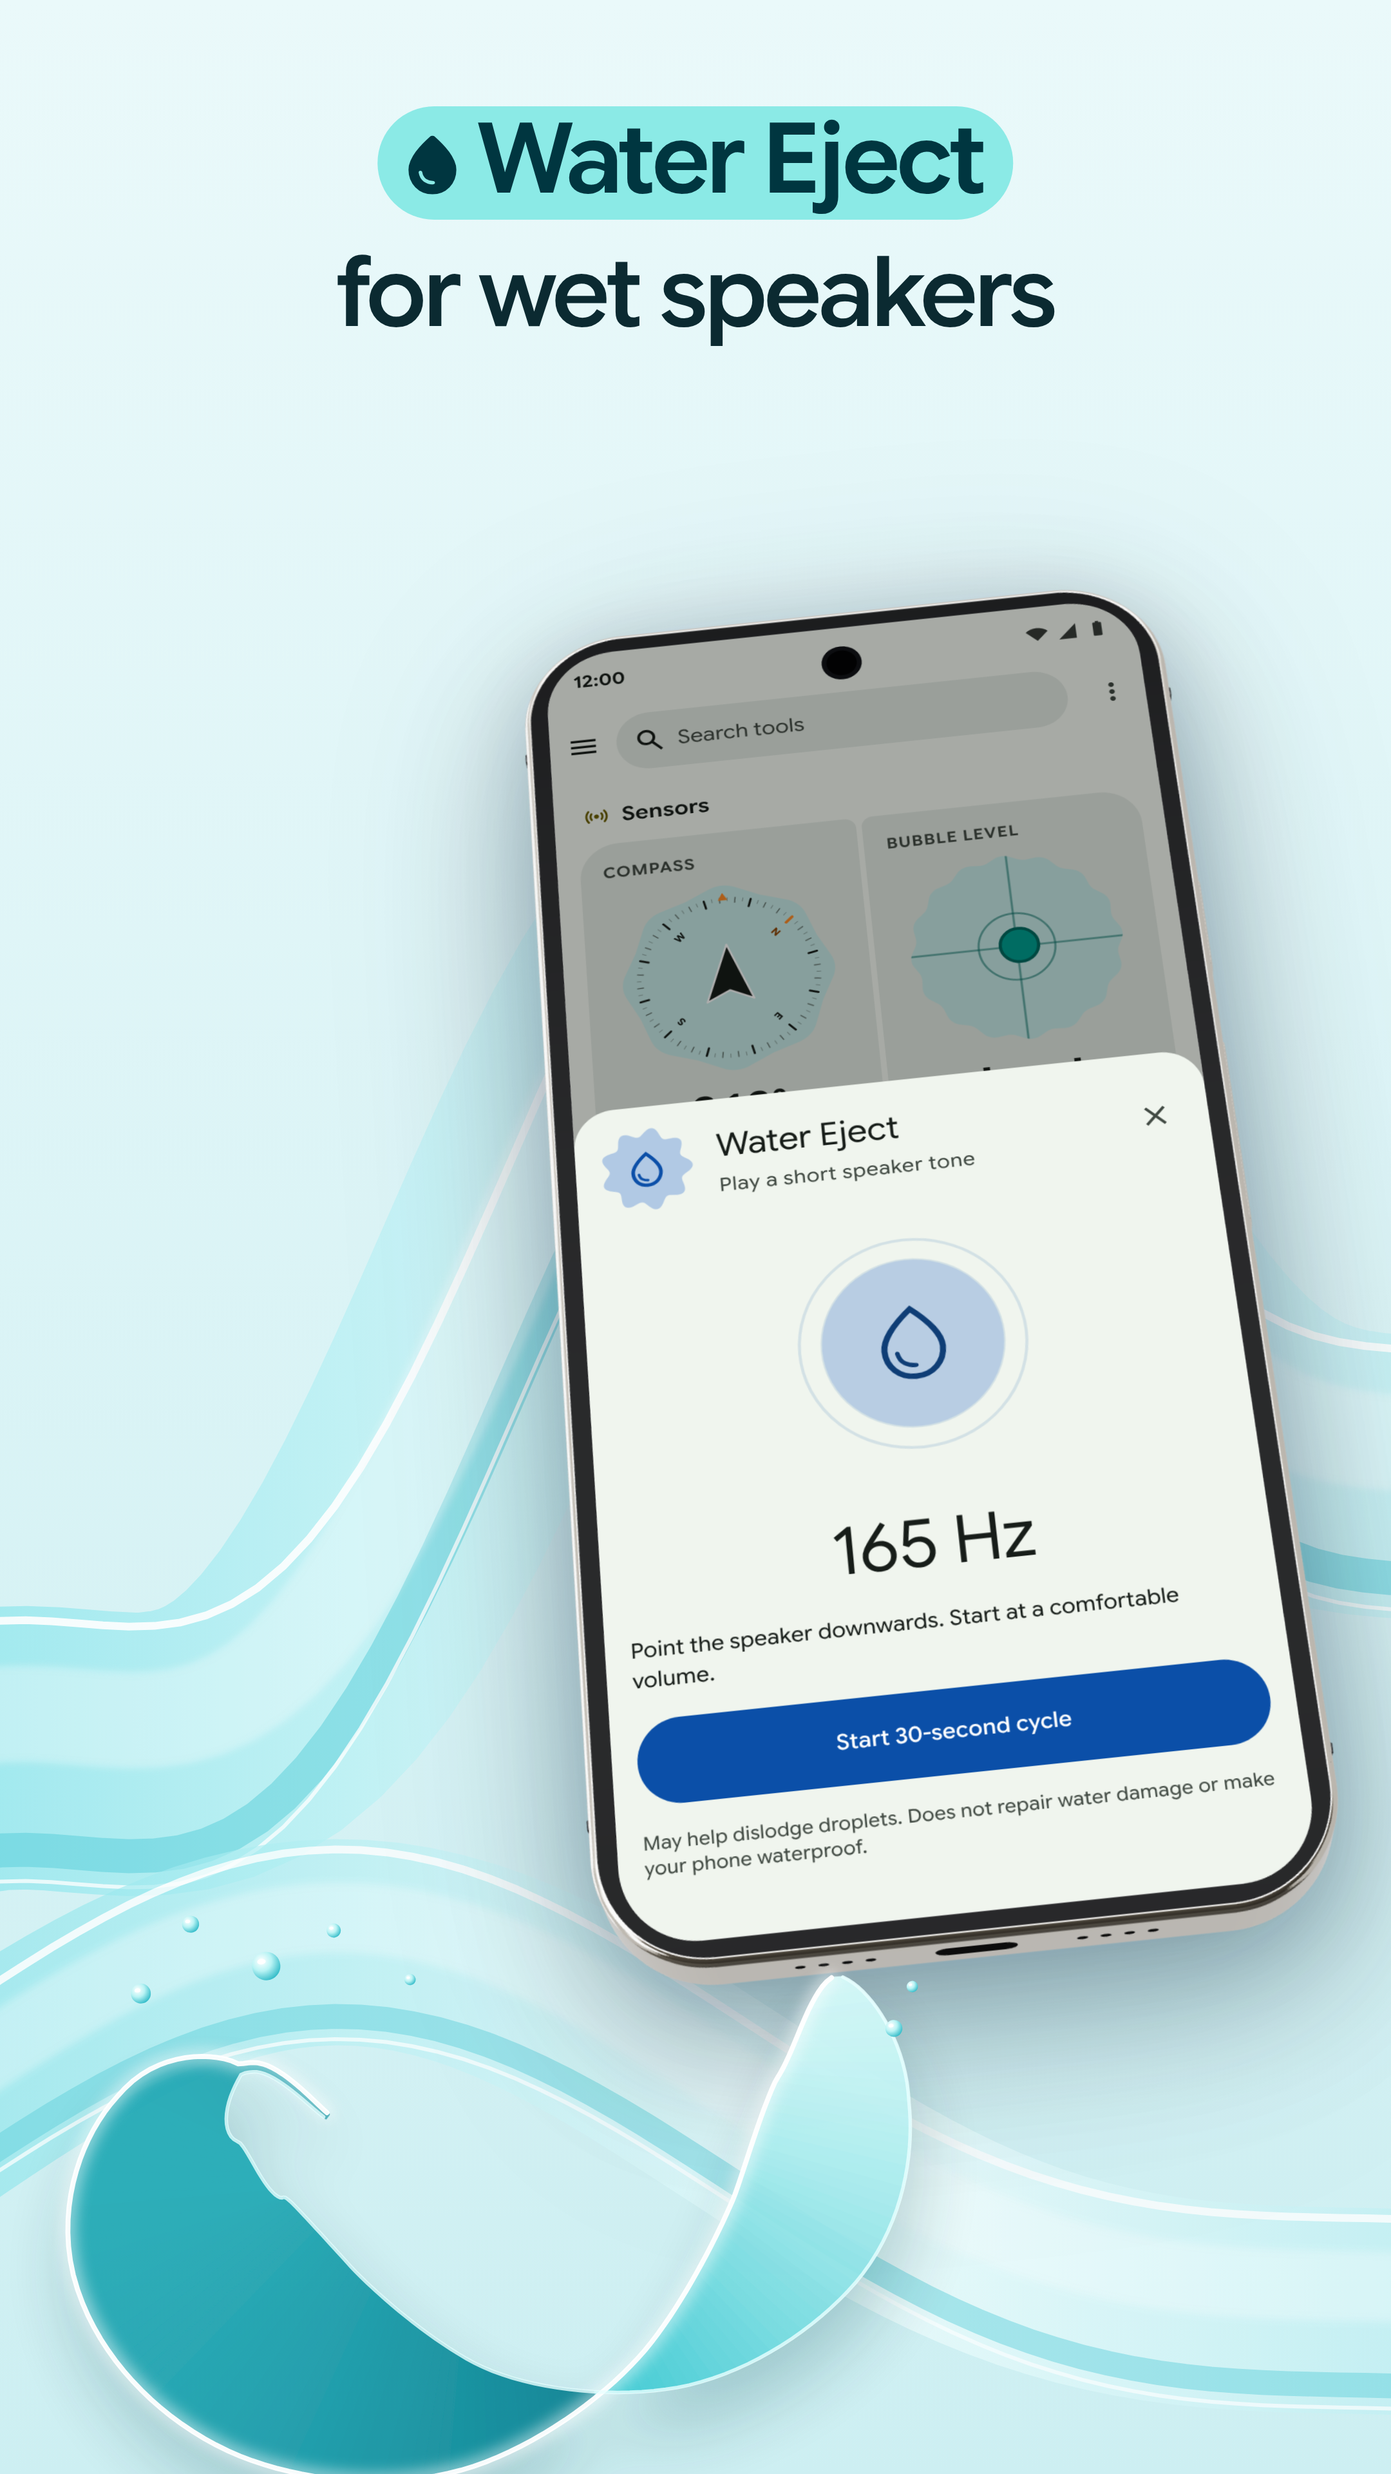
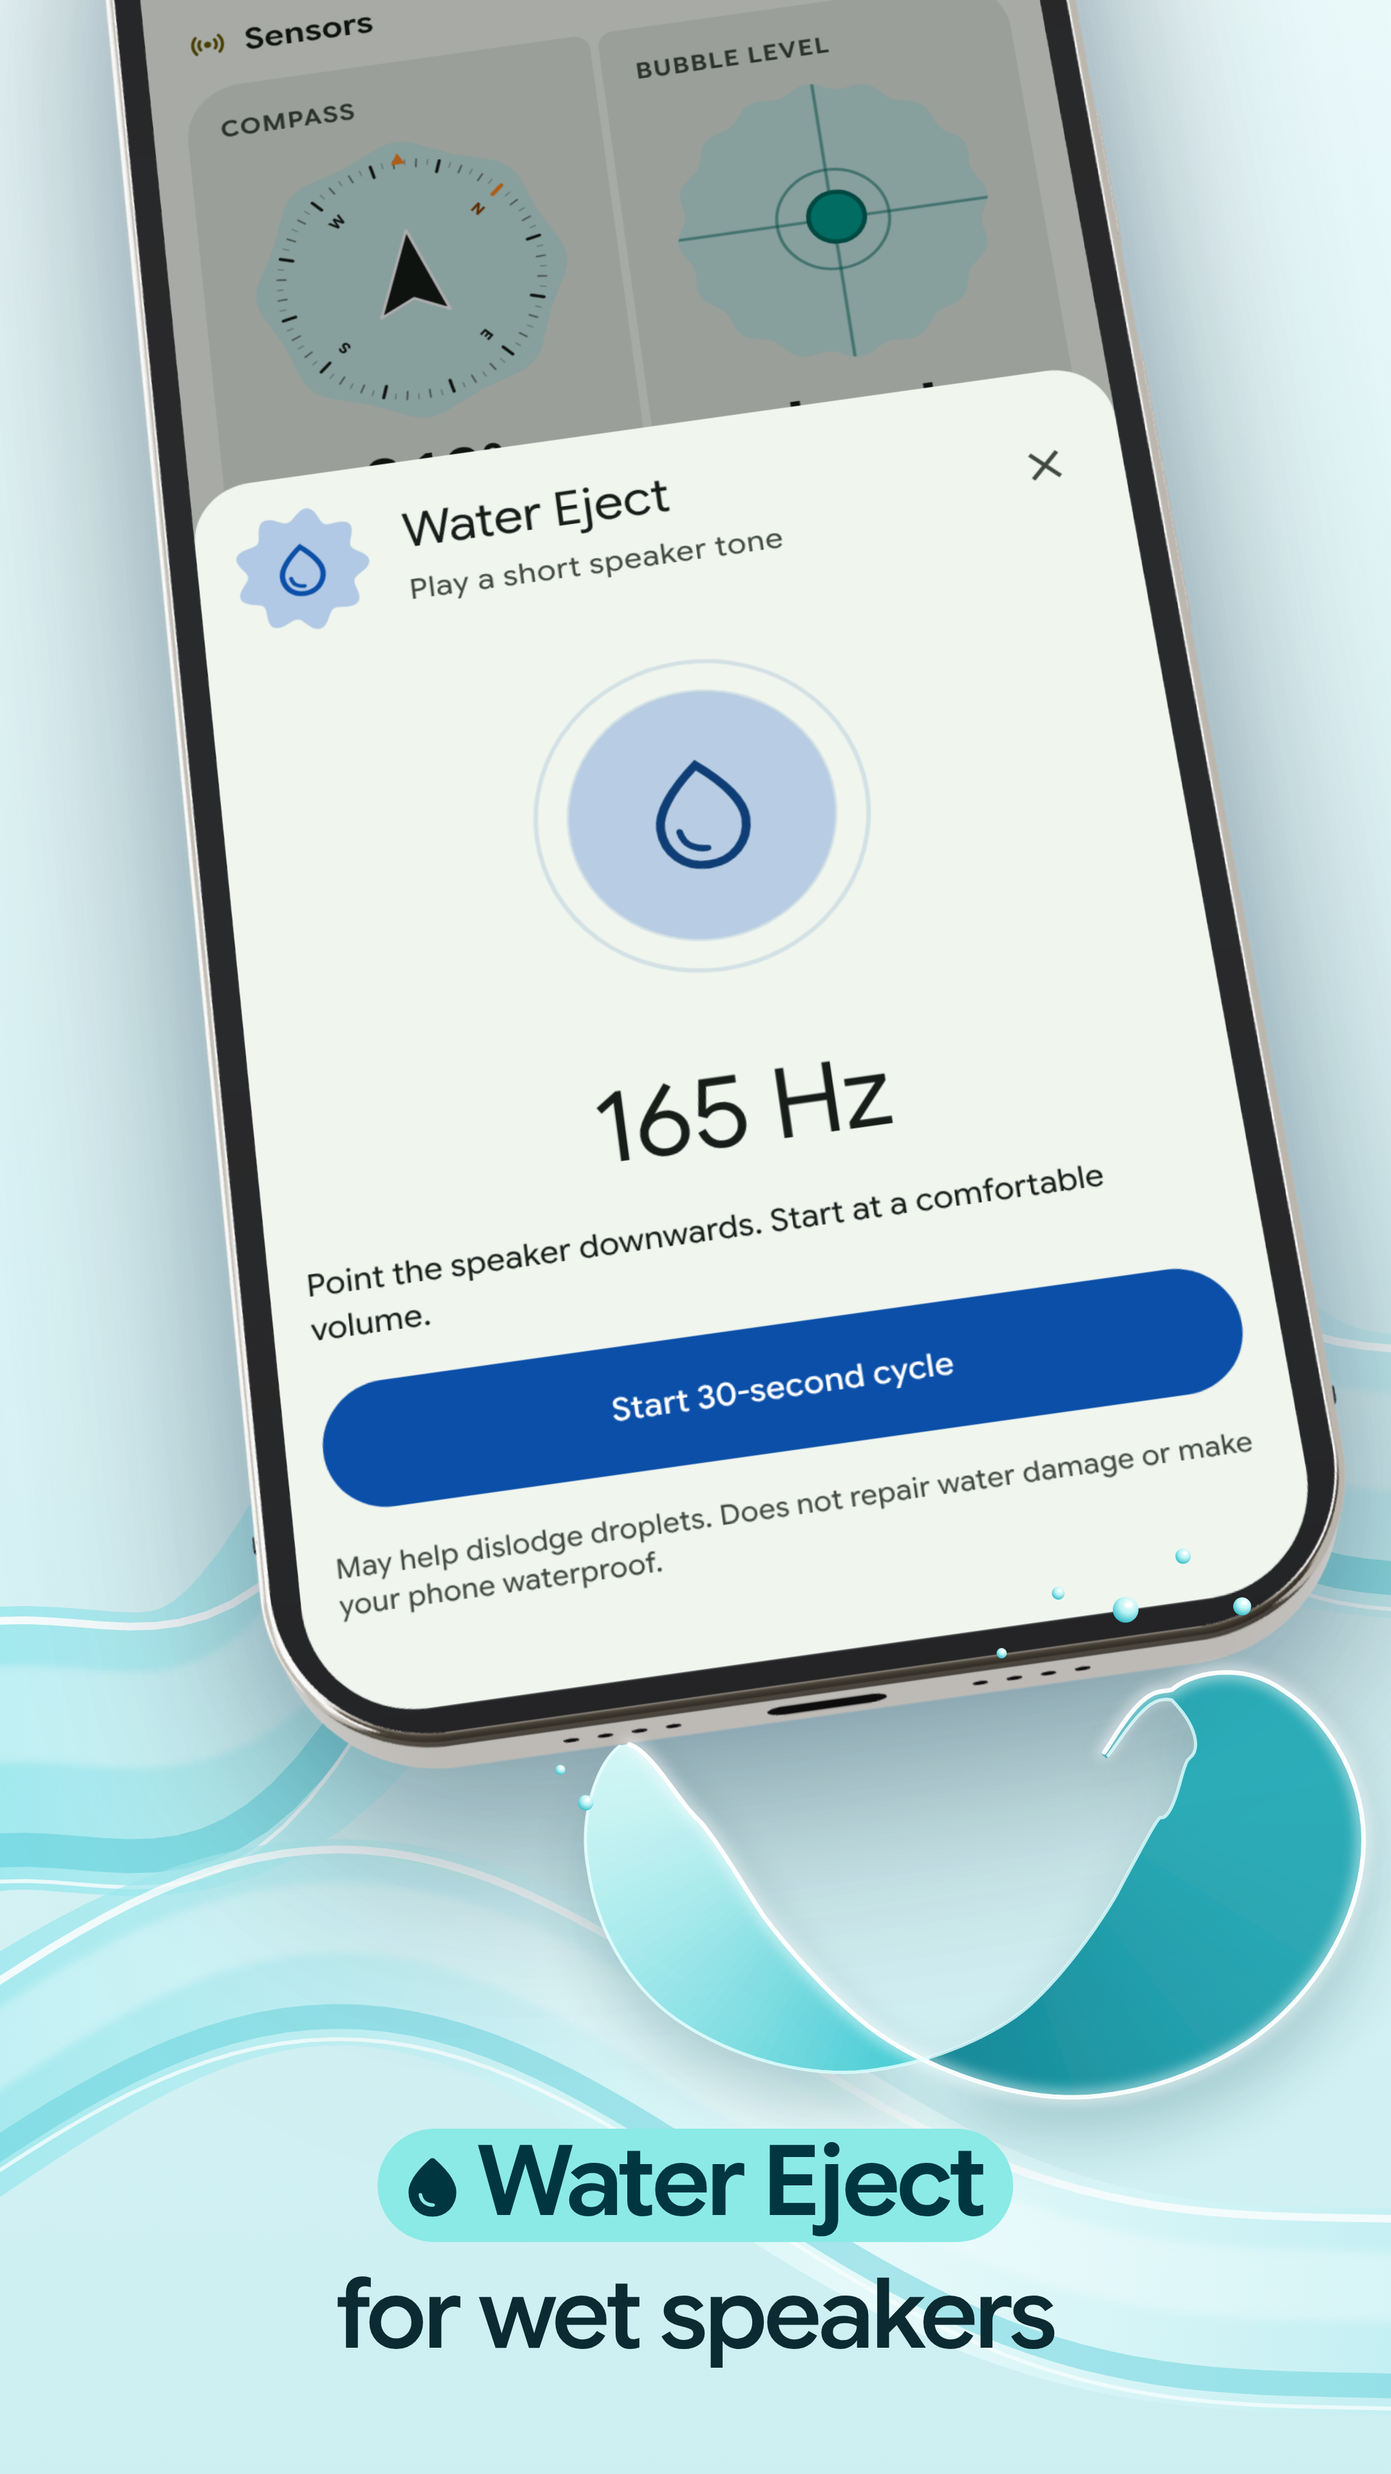
Speaker Water Eject hero: centred phone over a bottom caption
The hero phone is larger and centred, runs off the top instead of the
bottom, and leans back so its speaker edge faces the viewer. Its
caption moves to the foot of the image, and the wave curls to the right
between the phone and the caption. A rolled phone's anchor is offset so
its middle sits on the image's centre line, and the safe-bounds checks
follow the caption's position.

Claude-Session: https://claude.ai/code/session_01EEYGaFXbmvKJrEAo9apjWh

diff --git a/marketing/creative/store/google-play/listings/custom/speaker-water-eject/source/src/Phone.tsx b/marketing/creative/store/google-play/listings/custom/speaker-water-eject/source/src/Phone.tsx
@@ -8,25 +8,34 @@ import { FONT, INK, ON_PILL, PILL } from "./theme";
 
 export const WIDTH=1080,HEIGHT=1920;
 const CAPTION={left:120,right:960,top:72,bottom:312};
+/** A caption at the foot of its image fills the same band measured up from the bottom edge. */
+const CAPTION_LOW={...CAPTION,top:HEIGHT-CAPTION.bottom,bottom:HEIGHT-CAPTION.top};
 const ICON_DROP="-.1em";
 // Local CSS pixels, before the renderer's 2x output scale. Every visible subject is checked after layout.
-/** Nothing may enter the caption band. Phones may run off the bottom; `inOwnImage` keeps them off the dividers. */
+/**
+ * Nothing may enter the caption band. A phone under a top caption may run off the bottom; a phone over a
+ * bottom caption may run off the top. `inOwnImage` keeps every phone off the dividers.
+ */
 const CLEAR={left:-1e5,right:1e5,top:340,bottom:1e5};
+const CLEAR_LOW={left:-1e5,right:1e5,top:-1e5,bottom:HEIGHT-340};
 const FRAME_W=465.23;
 
 /**
- * A phone placed in one image: `x` is its centre across the strip, inside a single screenshot, so every
- * image stands on its own. `roll` tilts it in the picture plane, the way phones lie on a table in a
- * product shot; `yaw` turns it to show its side; `pitch` leans the top away to show the bottom edge.
- * Phones may run off the bottom edge, never off the top, so no corner is ever cut.
+ * A phone placed in one image: `x` and `top` place the middle of its top edge in the strip, inside a
+ * single screenshot, so every image stands on its own. `roll` tilts it about that point, the way phones
+ * lie on a table in a product shot, so a rolled phone's `x` is set off to keep its middle on the image's
+ * centre line; `yaw` turns it to show its side; `pitch` leans the top away to show the bottom edge. A
+ * phone runs off one edge only, away from its caption: the bottom under a top caption, the top over a
+ * bottom caption (`captionLow`).
  */
-type Device={screen:string;x:number;top:number;scale:number;roll?:number;yaw?:number;pitch?:number;speaker?:boolean};
+type Device={screen:string;x:number;top:number;scale:number;roll?:number;yaw?:number;pitch?:number;speaker?:boolean;captionLow?:boolean};
 
-// One strip, five images, each with its own composition: the hero shows the whole phone leaning back so
-// the speaker holes on its bottom edge face the viewer, with water thrown out of it; a close crop on the countdown; the
-// whole phone turned to show its side, the Stop button in view; two toolbox phones tilted apart; the level.
+// One strip, five images, each with its own composition: the hero is a large phone centred and running
+// off the top, leaning back so the speaker holes on its bottom edge face the viewer, water thrown out of
+// them and the caption below; a close crop on the countdown; the whole phone turned to show its side, the
+// Stop button in view; two toolbox phones tilted apart; the level.
 const DEVICES:Device[]=[
- {screen:"water-eject",x:640,top:385,scale:1.16,roll:-6,pitch:26,speaker:true},
+ {screen:"water-eject",x:410,top:-330,scale:1.7,roll:-8,pitch:24,speaker:true,captionLow:true},
  {screen:"water-running",x:1080+580,top:420,scale:1.8,roll:3,yaw:8},
  {screen:"water-stop",x:2160+560,top:400,scale:1.3,roll:3,yaw:-22},
  {screen:"unit-converter",x:3240+300,top:560,scale:1.08,roll:-7},
@@ -55,7 +64,7 @@ const place=(d:Device,[lx,ly]:number[])=>{
  */
 const inOwnImage=(d:Device)=>{
  const i=Math.floor(d.x/WIDTH),edges:number[][][]=[[[0,0],[FRAME_W,0]],[[0,FRAME_H],[FRAME_W,FRAME_H]],[[0,0],[0,FRAME_H]],[[FRAME_W,0],[FRAME_W,FRAME_H]]];
- const xs=edges.flatMap(([a,b])=>Array.from({length:41},(_,k)=>place(d,[a[0]+(b[0]-a[0])*k/40,a[1]+(b[1]-a[1])*k/40]))).filter(([,y])=>y<=HEIGHT).map(([x])=>x);
+ const xs=edges.flatMap(([a,b])=>Array.from({length:41},(_,k)=>place(d,[a[0]+(b[0]-a[0])*k/40,a[1]+(b[1]-a[1])*k/40]))).filter(([,y])=>y>=0&&y<=HEIGHT).map(([x])=>x);
  if(Math.min(...xs)<i*WIDTH||Math.max(...xs)>(i+1)*WIDTH)throw new Error(`The ${d.screen} phone crosses the edge of image ${i+1}`);
 };
 DEVICES.forEach(inOwnImage);
@@ -74,17 +83,17 @@ export const PhonePanorama:React.FC<{locale:string;only?:number}>=({locale,only}
   <div data-shot="strip" style={{position:"absolute",inset:0}}>
    {visible.map((d,k)=>(
     <div key={d.screen} style={{position:"absolute",left:d.x,top:d.top,width:FRAME_W,zIndex:k+1,transform:`translateX(-50%) rotate(${d.roll??0}deg) scale(${d.scale})`,transformOrigin:"50% 0",filter:"drop-shadow(0 34px 44px rgba(0,40,48,.26))"}}>
-     <LitScreen id={SCREENS[d.screen][0]} state={SCREENS[d.screen][1]} safeBounds={CLEAR} pose={{yaw:d.yaw??0,pitch:d.pitch??0}} style={{width:FRAME_W}}/>
+     <LitScreen id={SCREENS[d.screen][0]} state={SCREENS[d.screen][1]} safeBounds={d.captionLow?CLEAR_LOW:CLEAR} pose={{yaw:d.yaw??0,pitch:d.pitch??0}} style={{width:FRAME_W}}/>
     </div>
    ))}
   </div>
   {visible.filter(d=>d.speaker).map(d=>{
    const [x,y]=place(d,bottomEdge(SPEAKER_X,0,d.pitch??0));
-   return <div key={`wave-${d.screen}`} style={{position:"absolute",inset:0,zIndex:10}}><Wave x={x} y={y} angle={d.roll??0} size={1.1} width={n*WIDTH} height={HEIGHT}/></div>;
+   return <div key={`wave-${d.screen}`} style={{position:"absolute",inset:0,zIndex:10}}><Wave x={x} y={y} angle={d.roll??0} size={1} flip width={n*WIDTH} height={HEIGHT}/></div>;
   })}
   {strings.screenshots.map((s,i)=>(
    <div key={s.id} style={{position:"absolute",left:i*WIDTH,top:0,width:WIDTH,height:HEIGHT,pointerEvents:"none",zIndex:20}}>
-    <Caption lines={s.lines} highlight={s.highlight} icon={s.icon} check={only===i}/>
+    <Caption lines={s.lines} highlight={s.highlight} icon={s.icon} low={DEVICES.some(d=>d.captionLow&&Math.floor(d.x/WIDTH)===i)} check={only===i}/>
    </div>
   ))}
  </AbsoluteFill>;
@@ -96,7 +105,8 @@ export const PhonePanorama:React.FC<{locale:string;only?:number}>=({locale,only}
  * dashes: the line break carries the pause. The render fails if the highlight is not in the lines exactly once, if a line has
  * punctuation or a dash, if the caption leaves its box, or if it covers over 20% of the image, Play's limit.
  */
-const Caption: React.FC<{ lines: string[]; highlight: string; icon: string; check: boolean }> = ({ lines, highlight, icon, check }) => {
+const Caption: React.FC<{ lines: string[]; highlight: string; icon: string; low: boolean; check: boolean }> = ({ lines, highlight, icon, low, check }) => {
+  const band = low ? CAPTION_LOW : CAPTION;
   const ref = useRef<HTMLHeadingElement>(null);
   const found = lines.flatMap((line, i) => (line.split(highlight).length - 1 === 1 ? [i] : []));
   const total = lines.reduce((sum, line) => sum + line.split(highlight).length - 1, 0);
@@ -115,12 +125,12 @@ const Caption: React.FC<{ lines: string[]; highlight: string; icon: string; chec
       const r = ref.current!.getBoundingClientRect();
       const share = (r.width * r.height) / (WIDTH * HEIGHT);
       const box = ref.current!.parentElement!.getBoundingClientRect();
-      const inside = r.left - box.left >= CAPTION.left && r.right - box.left <= CAPTION.right && r.top - box.top >= CAPTION.top && r.bottom - box.top <= CAPTION.bottom;
+      const inside = r.left - box.left >= band.left && r.right - box.left <= band.right && r.top - box.top >= band.top && r.bottom - box.top <= band.bottom;
       if (share > 0.2) cancelRender(new Error(`Caption covers ${(share * 100).toFixed(1)}% of the image; Play allows 20%`));
       else if (!inside) cancelRender(new Error(`The caption "${lines.join(" ")}" leaves its box; shorten it`));
       else continueRender(handle);
     });
-  }, [check, total, highlight, lines]);
+  }, [check, total, highlight, lines, band]);
   // An inline block shares the line's baseline, so the highlighted word sits level with the words around it; the
   // padding, not an offset, sizes the pill around it.
   const pill = (
@@ -130,7 +140,7 @@ const Caption: React.FC<{ lines: string[]; highlight: string; icon: string; chec
     </b>
   );
   return (
-    <h1 ref={ref} style={{ position: "absolute", left: "50%", top: CAPTION.top, transform: "translateX(-50%)", width: "max-content", maxWidth: CAPTION.right - CAPTION.left, margin: 0, zIndex: 2, color: INK, fontSize: 76, lineHeight: 1.36, letterSpacing: -1.5, fontWeight: 560, textAlign: "center" }}>
+    <h1 ref={ref} style={{ position: "absolute", left: "50%", ...(low ? { bottom: HEIGHT - band.bottom } : { top: band.top }), transform: "translateX(-50%)", width: "max-content", maxWidth: CAPTION.right - CAPTION.left, margin: 0, zIndex: 2, color: INK, fontSize: 76, lineHeight: 1.36, letterSpacing: -1.5, fontWeight: 560, textAlign: "center" }}>
       {lines.map((line, i) => {
         if (i !== found[0]) return <span key={i} style={{ display: "block" }}>{line}</span>;
         const [before, after] = line.split(highlight);

diff --git a/marketing/creative/store/google-play/listings/custom/speaker-water-eject/source/src/Glass.tsx b/marketing/creative/store/google-play/listings/custom/speaker-water-eject/source/src/Glass.tsx
@@ -63,10 +63,10 @@ const rgb = (c: number[]) => `rgb(${c.join(",")})`;
 /**
  * A wave of water thrown out of a speaker grille at (x, y), turned by `angle`: a ribbon of liquid that
  * leaves the grille narrow, widens as it sweeps down and away, and twists over into a curl, so its light
- * face and its deeper underside both show. Built from short lit segments with bright rims; a handful of
+ * face and its deeper underside both show. `flip` sends it to the right. Built from short lit segments with bright rims; a handful of
  * drops leave the crest. An illustration of the tone's effect, not a claim.
  */
-export const Wave: React.FC<{ x: number; y: number; angle: number; size: number; width: number; height: number }> = ({ x, y, angle, size, width, height }) => {
+export const Wave: React.FC<{ x: number; y: number; angle: number; size: number; flip?: boolean; width: number; height: number }> = ({ x, y, angle, size, flip, width, height }) => {
   const spine = [[0, 10], [-6, 90], [-60, 190], [-190, 270], [-360, 290], [-510, 240], [-600, 150], [-590, 60], [-520, 30], [-460, 70]].map(([px, py]) => [px * 0.8, py]);
   const N = 160;
   const light = [214, 251, 250], mid = [64, 210, 218], deep = [8, 128, 144];
@@ -97,7 +97,7 @@ export const Wave: React.FC<{ x: number; y: number; angle: number; size: number;
         <filter id="wave-shadow" x="-20%" y="-20%" width="140%" height="150%"><feDropShadow dx="0" dy="28" stdDeviation="24" floodColor="#00444E" floodOpacity=".25" /></filter>
         <filter id="wave-soft" x="-10%" y="-10%" width="120%" height="120%"><feGaussianBlur stdDeviation="5" /></filter>
       </defs>
-      <g transform={`translate(${x} ${y}) rotate(${angle}) scale(${size})`}>
+      <g transform={`translate(${x} ${y}) rotate(${angle}) scale(${flip ? -size : size} ${size})`}>
         <g filter="url(#wave-shadow)" opacity=".94">
           {segments.map((s) => <path key={s.key} d={s.d} fill={s.fill} stroke={s.fill} strokeWidth="1.2" strokeLinejoin="round" />)}
         </g>

diff --git a/marketing/creative/store/google-play/listings/custom/speaker-water-eject/README.md b/marketing/creative/store/google-play/listings/custom/speaker-water-eject/README.md
@@ -16,7 +16,7 @@ The keywords describe intent, not measured demand. The prior Play reports did no
 
 Five screenshots read as one panorama in the language of Material 3's own hero art: a light aqua field crossed by ribbons of liquid glass in aqua and white, with sharp white rims. The ribbons are computed across the whole strip, so every seam meets. No phone crosses a divider: each screenshot stands on its own, and the render fails if a phone's visible part enters the next image. Headlines are dark on the light field, with App Toolkit's aqua caption pill. Phones are Material-Next's porcelain 3D Pixel 9 Pro XL. Every image shows a different screen or state, with its own composition: the ready 165 Hz screen appears once, in the hero.
 
-1. Hero: the whole phone leans back so its bottom edge, with the speaker grille and USB-C port, faces the viewer. A twisting turquoise wave of water leaves the grille and curls over, and the Start button is in view. The water is an illustration of the tone, not a promise of what the app does to a phone.
+1. Hero: a large phone centred in the frame, running off the top and leaning back so the speaker holes and USB-C port on its bottom edge face the viewer. A twisting turquoise wave of water leaves the speaker and curls to the right, the Start button is in view, and the caption sits at the foot of the image. The water is an illustration of the tone, not a promise of what the app does to a phone.
 2. Up to 30 seconds: a close crop on the running cycle and its 20 second countdown.
 3. You choose when to stop: the whole phone turned to show its side, at 8 seconds with the Stop button in view.
 4. The toolbox: Unit Converter and Quick Tools side by side, tilted apart.
